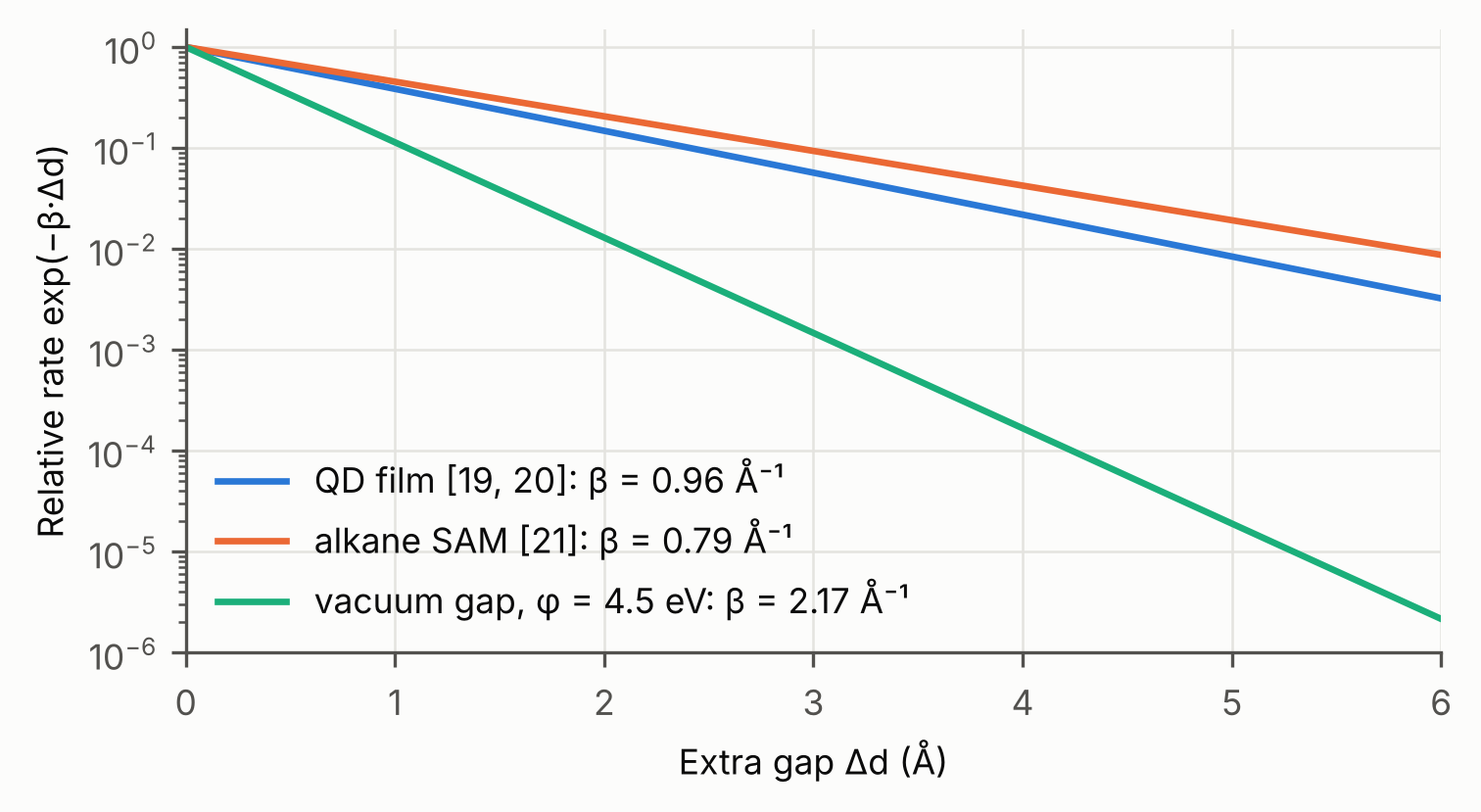
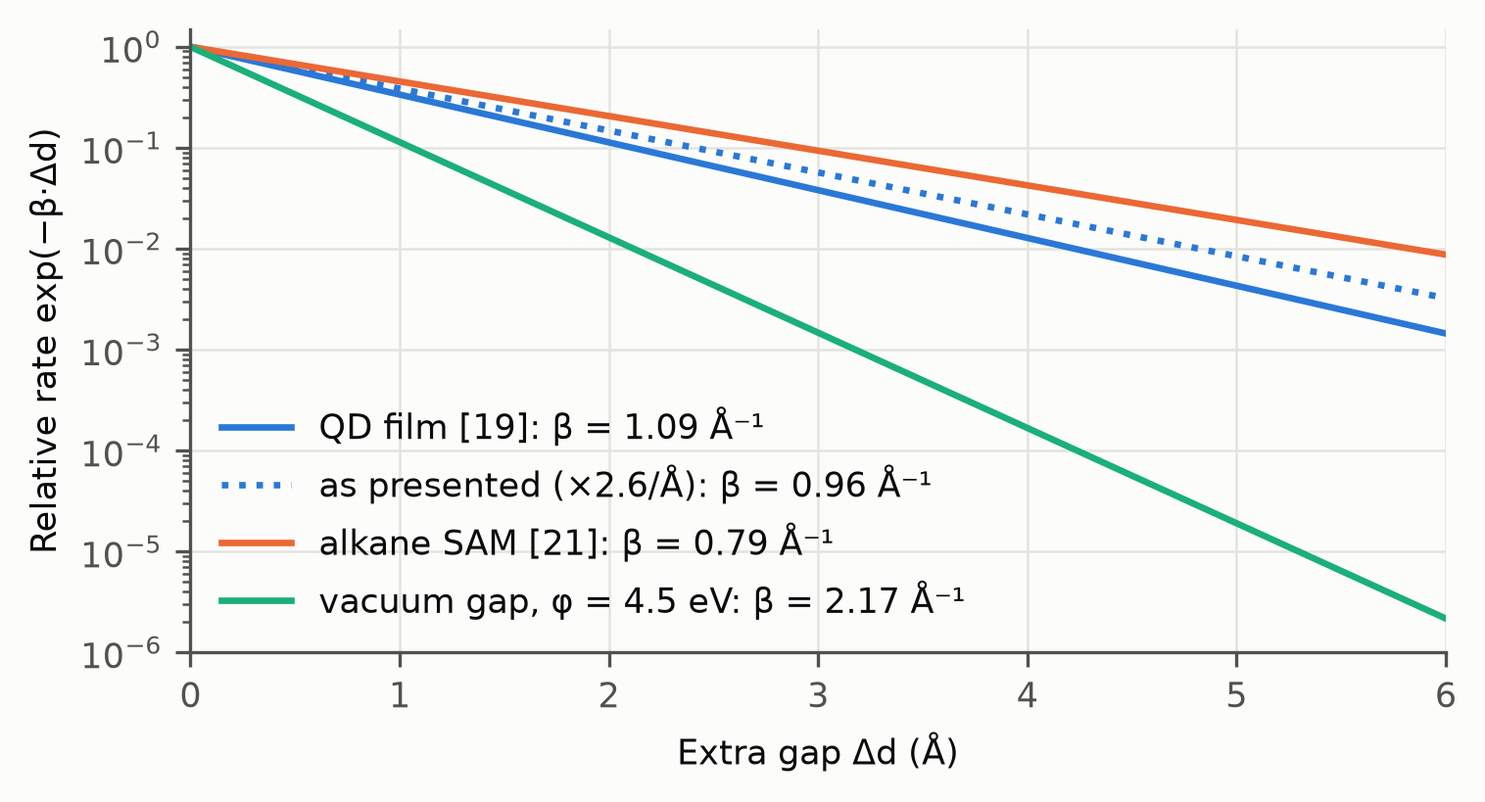
Correct the tunnelling decay constant to the primary source
The presentation used a mobility gain of 2.6 per angstrom of shorter ligand
(beta = ln 2.6 = 0.96 per angstrom), taken from the review [20]'s summary of
Liu et al. 2010 [19]. The abstract of [19] reports beta = 1.08-1.10 per
angstrom for alkanedithiol-treated PbSe films. The package now uses the
midpoint, 1.09 (barrier 1.13 eV for m0, 2.65 eV for 0.43 m0).

slides.py keeps the values as presented, checked against the input the talk
used, and marks each with its corrected value; README gains a Correction
section; f_tunnel shows both; one more validation check (102).

diff --git a/quantum_dot_photodetector/slides.py b/quantum_dot_photodetector/slides.py
@@ -5,6 +5,9 @@ Each entry gives the slide number (18-slide deck), the value as shown, the key i
 range for qualitative statements). ``slide_text`` is the exact string on the
 slide; ``script_text`` is the matching phrase of the spoken script, which was delivered in Chinese
 and is given here in English translation. Each number can be traced to where it is used.
+
+Entries with ``corrected`` show a value that was later corrected (README, Correction): they are checked against
+the input the presentation used, and ``corrected`` names the key of the corrected value.
 """
 from dataclasses import dataclass
 from typing import Optional, Tuple
@@ -21,6 +24,7 @@ class Shown:
     within: Optional[Tuple[float, float]] = None  # for qualitative statements
     slide_text: Optional[str] = None
     script_text: Optional[str] = None
+    corrected: Optional[str] = None          # key of the corrected value, for a number corrected after the talk
 
 
 REGISTRY = [
@@ -53,12 +57,15 @@ REGISTRY = [
     # ------------------------------------------------------------ slide 8: electrical properties
     Shown(8, "responsivity at η = 0.6, 1400 nm (A/W)", "R_st", 0.68, 0.005,
           slide_text="≈ 0.68 A/W at η = 0.6", script_text="about 0.68 A/W"),
-    Shown(8, "β of the QD film (Å⁻¹)", "beta_qd", 0.96, 0.005,
-          slide_text="β ≈ 0.96 Å⁻¹ [19, 20]", script_text="β is about 0.96 Å⁻¹"),
-    Shown(8, "κ of the QD film (Å⁻¹)", "kappa_qd", 0.48, 0.005, script_text="κ ≈ 0.48 Å⁻¹"),
-    Shown(8, "barrier of the QD film for m* = m0 (eV)", "barrier_qd_m0", 0.87, 0.005, script_text="φ is about 0.87 eV"),
+    Shown(8, "β of the QD film (Å⁻¹)", "beta_qd_presented", 0.96, 0.005,
+          slide_text="β ≈ 0.96 Å⁻¹ [19, 20]", script_text="β is about 0.96 Å⁻¹", corrected="beta_qd"),
+    Shown(8, "κ of the QD film (Å⁻¹)", "kappa_qd_presented", 0.48, 0.005, script_text="κ ≈ 0.48 Å⁻¹",
+          corrected="kappa_qd"),
+    Shown(8, "barrier of the QD film for m* = m0 (eV)", "barrier_qd_m0_presented", 0.87, 0.005,
+          script_text="φ is about 0.87 eV", corrected="barrier_qd_m0"),
     Shown(8, "m* implied by the SAM fit (m0)", "m_sam", 0.43, 0.005, script_text="m* ≈ 0.43 m0"),
-    Shown(8, "barrier of the QD film for m* = 0.43 m0 (eV)", "barrier_qd_msam", 2.0, 0.05, script_text="φ is about 2.0 eV"),
+    Shown(8, "barrier of the QD film for m* = 0.43 m0 (eV)", "barrier_qd_msam_presented", 2.0, 0.05,
+          script_text="φ is about 2.0 eV", corrected="barrier_qd_msam"),
     Shown(8, "rate factor per Å, alkane SAM", "factor_sam", 2.2, 0.05, slide_text="β = 0.79 Å⁻¹, ×2.2/Å"),
     Shown(8, "β of a 4.5 eV vacuum gap (Å⁻¹)", "beta_vac", 2.2, 0.05,
           slide_text="STM, β ≈ 2.2 Å⁻¹", script_text="β is about 2.2 Å⁻¹"),
@@ -102,7 +109,8 @@ REGISTRY = [
     # ------------------------------------------------------------ slide 16: conclusion
     Shown(16, "EMA confinement overestimate (×)", "over_ema", 2.7, 0.05,
           slide_text="overestimates the confinement ×2.7", script_text="overestimates by about 2.7 times"),
-    Shown(16, "β of the QD film (Å⁻¹)", "beta_qd", 0.96, 0.005, slide_text="0.96 Å⁻¹"),
+    Shown(16, "β of the QD film (Å⁻¹)", "beta_qd_presented", 0.96, 0.005, slide_text="0.96 Å⁻¹",
+          corrected="beta_qd"),
     Shown(16, "PbS CQD / InGaAs dark current (×)", "jd_ratio_meas", 62, 0.5, slide_text="62×"),
     Shown(16, "PbS CQD / InGaAs dark current, rounded (×)", "jd_ratio_meas", 60, 5,
           slide_text="dark current (≈ 60× InGaAs)"),

diff --git a/quantum_dot_photodetector/validation.py b/quantum_dot_photodetector/validation.py
@@ -147,9 +147,12 @@ def _surface(r):
 # ---------------------------------------------------------------- transport
 def _transport(r):
     cat = "Transport"
+    lo, hi = D.BETA_QD
     out = [
-        _close(cat, "β = ln 2.6 → rate factor per Å", 1 / tr.relative_rate(r["beta_qd"], 1.0), D.MOBILITY_FACTOR_PER_A, 1e-12,
-               "exp(β·1 Å) returns 2.6"),
+        _flag(cat, "β of the QD film within the range of [19]", lo <= r["beta_qd"] <= hi,
+              f"{lo} ≤ {r['beta_qd']:.3f} ≤ {hi} Å⁻¹; rate factor {r['factor_qd']:.2f} per Å"),
+        _close(cat, "as presented: β = ln 2.6 → rate factor per Å", 1 / tr.relative_rate(r["beta_qd_presented"], 1.0),
+               D.MOBILITY_FACTOR_PER_A_PRESENTED, 1e-12, "exp(β·1 Å) returns 2.6; corrected to [19], see README"),
     ]
     beta_si = 2 * math.sqrt(2 * sc.m_e * D.PHI_VAC * sc.e) / sc.hbar * 1e-10
     out.append(_close(cat, "vacuum 4.5 eV: β = 2(2m0φ)^½/ħ, recomputed in SI (Å⁻¹)", r["beta_vac"], beta_si, 1e-6,
@@ -223,6 +226,8 @@ def _slides(r):
         model, ok = slides.check(e, r)
         where = " / ".join(x for x in (e.slide_text and f"slide: “{e.slide_text}”",
                                         e.script_text and f"script: “{e.script_text}”") if x)
+        if e.corrected:
+            where += f"; corrected after the talk to {r[e.corrected] * e.scale:.3g} (README, Correction)"
         if e.within is not None:
             how = f"range {e.within[0]:g}–{e.within[1]:g}; {where}"
             out.append(Check(f"Slide {e.slide}", e.quantity, ok, model, None, None, how))

diff --git a/quantum_dot_photodetector/summary.py b/quantum_dot_photodetector/summary.py
@@ -40,11 +40,18 @@ def compute():
         r["shell_" + key] = sf.shell_fraction(dd)
         r["N_" + key] = sf.count_sites(dd, "atom")[0]
     # ---------------------------------------------------------------- transport
-    r["beta_qd"] = tr.beta_from_factor()
+    r["beta_qd_low"], r["beta_qd_high"] = D.BETA_QD
+    r["beta_qd"] = sum(D.BETA_QD) / 2                     # midpoint of the range reported by [19]
+    r["factor_qd"] = 1 / tr.relative_rate(r["beta_qd"], 1.0)
     r["kappa_qd"] = r["beta_qd"] / 2
     r["barrier_qd_m0"] = tr.barrier_from_beta(r["beta_qd"], 1.0)
     r["m_sam"] = tr.mass_from_beta_and_barrier(D.BETA_SAM, D.PHI_SAM)
     r["barrier_qd_msam"] = tr.barrier_from_beta(r["beta_qd"], r["m_sam"])
+    # as presented (factor 2.6 per Å); kept to check the slides and the script, see README, Correction
+    r["beta_qd_presented"] = tr.beta_from_factor(D.MOBILITY_FACTOR_PER_A_PRESENTED)
+    r["kappa_qd_presented"] = r["beta_qd_presented"] / 2
+    r["barrier_qd_m0_presented"] = tr.barrier_from_beta(r["beta_qd_presented"], 1.0)
+    r["barrier_qd_msam_presented"] = tr.barrier_from_beta(r["beta_qd_presented"], r["m_sam"])
     r["beta_vac"] = tr.beta_from_barrier(D.PHI_VAC)
     r["factor_vac"] = 1 / tr.relative_rate(r["beta_vac"], 1.0)
     r["factor_sam"] = 1 / tr.relative_rate(D.BETA_SAM, 1.0)

diff --git a/quantum_dot_photodetector/plotting.py b/quantum_dot_photodetector/plotting.py
@@ -80,11 +80,12 @@ def fig_tunnel(outdir):
     r = compute()
     x = np.linspace(0, 6, 100)
     fig, ax = plt.subplots(figsize=(WIDTH_IN, WIDTH_IN * 0.5))
-    lines = ((f"QD film [19, 20]: β = {r['beta_qd']:.2f} Å⁻¹", r["beta_qd"], BLUE),
-             (f"alkane SAM [21]: β = {D.BETA_SAM:.2f} Å⁻¹", D.BETA_SAM, ORANGE),
-             (f"vacuum gap, φ = {D.PHI_VAC} eV: β = {r['beta_vac']:.2f} Å⁻¹", r["beta_vac"], AQUA))
-    for lab, b, c in lines:
-        ax.semilogy(x, [tr.relative_rate(b, v) for v in x], color=c, label=lab)
+    lines = ((f"QD film [19]: β = {r['beta_qd']:.2f} Å⁻¹", r["beta_qd"], BLUE, "-"),
+             (f"as presented (×2.6/Å): β = {r['beta_qd_presented']:.2f} Å⁻¹", r["beta_qd_presented"], BLUE, ":"),
+             (f"alkane SAM [21]: β = {D.BETA_SAM:.2f} Å⁻¹", D.BETA_SAM, ORANGE, "-"),
+             (f"vacuum gap, φ = {D.PHI_VAC} eV: β = {r['beta_vac']:.2f} Å⁻¹", r["beta_vac"], AQUA, "-"))
+    for lab, b, c, style in lines:
+        ax.semilogy(x, [tr.relative_rate(b, v) for v in x], color=c, linestyle=style, label=lab)
     ax.set(xlim=(0, 6), ylim=(1e-6, 1.5), xlabel="Extra gap Δd (Å)", ylabel="Relative rate exp(−β·Δd)")
     ax.legend(loc="lower left")
     return _save(fig, outdir, "f_tunnel.png")

diff --git a/quantum_dot_photodetector/data.py b/quantum_dot_photodetector/data.py
@@ -23,7 +23,10 @@ EG_SI = 1.12           # eV, Si at 300 K [22]
 EG_INGAAS = 0.75       # eV, In0.53Ga0.47As at room temperature [24]
 
 # ---------------------------------------------------------------- transport between dots
-MOBILITY_FACTOR_PER_A = 2.6  # mobility gain per Å of shorter ligand, PbSe + alkanedithiols [19, 20]
+BETA_QD = (1.08, 1.10)       # Å⁻¹, mobility decay with ligand length, alkanedithiol-treated PbSe NC films [19]
+# the presentation used a gain of 2.6 per Å of shorter ligand, from the review [20]'s summary of [19];
+# [19] itself reports BETA_QD (2.9-3.0 per Å). See README, Correction.
+MOBILITY_FACTOR_PER_A_PRESENTED = 2.6
 BETA_SAM = 0.79              # Å⁻¹, tunnelling decay of alkanethiol monolayers [21]
 PHI_SAM = 1.39               # eV, barrier height fitted together with BETA_SAM [21]
 PHI_VAC = 4.5                # eV, typical metal work function for an STM vacuum gap (assumed)

diff --git a/quantum_dot_photodetector/transport.py b/quantum_dot_photodetector/transport.py
@@ -4,11 +4,10 @@ Lengths in Å, energies in eV, masses in units of m0.
 """
 import math
 
-from . import data as D
 from .constants import HB2_2M0_A
 
 
-def beta_from_factor(factor_per_A=D.MOBILITY_FACTOR_PER_A):
+def beta_from_factor(factor_per_A):
     """A rate that changes by `factor` per Å has β = ln(factor)."""
     return math.log(factor_per_A)
 

diff --git a/VALIDATION.md b/VALIDATION.md
@@ -1,6 +1,6 @@
 # Validation results
 
-101 / 101 checks passed. Generated by `python scripts/validate.py --markdown`; CI reruns every check on each push.
+102 / 102 checks passed. Generated by `python scripts/validate.py --markdown`; CI reruns every check on each push.
 
 | # | Category | Check | Model | Expected | Tolerance | Result | How it is checked |
 |---|---|---|---|---|---|---|---|
@@ -36,72 +36,73 @@
 | 30 | Surface atoms | shell-model large-dot limit: f·d/(6h) at d = 1000 nm | 0.9994 | 1 | 0.005 (rel) | PASS | f ≈ 6t/d |
 | 31 | Surface atoms | surface fraction falls with size (3, 5, 8, 12 nm) | — | — | — | PASS | 0.433, 0.268, 0.176, 0.120 |
 | 32 | Surface atoms | atom count < shell model at 3.1 and 5.1 nm | — | — | — | PASS | the count includes only atoms that miss a neighbour; the shell model counts the whole a/2 layer |
-| 33 | Transport | β = ln 2.6 → rate factor per Å | 2.6 | 2.6 | 1e-12 | PASS | exp(β·1 Å) returns 2.6 |
-| 34 | Transport | vacuum 4.5 eV: β = 2(2m0φ)^½/ħ, recomputed in SI (Å⁻¹) | 2.174 | 2.174 | 1e-06 (rel) | PASS | computed directly with SI constants |
-| 35 | Transport | φ(β) and β(φ) are inverse functions | 0.9555 | 0.9555 | 1e-12 | PASS | round trip |
-| 36 | Transport | SAM: (β, φ, m*) self-consistent | 0.79 | 0.79 | 1e-12 | PASS | β recomputed from the derived m* and φ = 1.39 eV returns 0.79 Å⁻¹ |
-| 37 | Transport | β ordering: SAM < QD film < vacuum | — | — | — | PASS | 0.79 < 0.956 < 2.174 Å⁻¹ |
-| 38 | Dark current | n = 2 ratio = √(n = 1 ratio) | 4367 | 4367 | 1e-09 (rel) | PASS | exp(ΔE/2kT) = [exp(ΔE/kT)]^½ |
-| 39 | Dark current | temperature projection unchanged at T = T0 | 2.25e-09 | 2.25e-09 | 1e-12 (rel) | PASS | definition |
-| 40 | Dark current | local halving interval lies between the exact halving and doubling steps (n = 1) | 5.581 | — | — | PASS | ln J is concave in T: exact 5.48 K (halving on cooling from 300 K) < local 5.58 K < 5.68 K (doubling on warming) |
-| 41 | Dark current | local halving interval lies between the exact halving and doubling steps (n = 2) | 11.16 | — | — | PASS | ln J is concave in T: exact 10.78 K (halving on cooling from 300 K) < local 11.16 K < 11.58 K (doubling on warming) |
-| 42 | Dark current | d lnJ/dT: numerical vs analytic (n = 1) | 0.1242 | 0.1242 | 1e-06 (rel) | PASS | central difference |
-| 43 | Dark current | d lnJ/dT: numerical vs analytic (n = 2) | 0.06209 | 0.06209 | 1e-06 (rel) | PASS | central difference |
-| 44 | Dark current | IMX990: 64.6 e⁻/s ÷ (5 µm)² (A/cm²) | 4.14e-11 | 4.14e-11 | 1e-12 (rel) | PASS | by hand: 64.6 × q / (5×10⁻⁴ cm)² |
-| 45 | Dark current | cooled IMX990 lies between the n = 1 and n = 2 projections | — | — | — | PASS | 1.66e-12 < 4.14e-11 < 6.1e-11 A/cm² |
-| 46 | Dark current | the QD dark current is not set by the gap | — | — | — | PASS | by the gap alone QD/InGaAs would be 0.14×; measured 62× |
-| 47 | Detector | Vafaie 2021: EQE 80 % at 1550 nm → R (A/W) | 1 | 1 | 0.01 (rel) | PASS | R = ηqλ/hc compared with the reported 1 A/W |
-| 48 | Detector | R(η = 0.6, 1400 nm), recomputed in SI (A/W) | 0.6775 | 0.6775 | 1e-06 (rel) | PASS | ηqλ/(hc) |
-| 49 | Detector | D* unit conversion, recomputed in SI (Jones) | 4.722e+12 | 4.722e+12 | 1e-09 (rel) | PASS | R/(2qJ)^½ in SI, then m converted to cm |
-| 50 | Detector | measured D* below the shot-noise limit (both devices) | — | — | — | PASS | thermal, 1/f and read-out noise add to the shot noise |
-| 51 | Slide 4 | bulk PbS absorption edge (µm) | 3.024 | 3 | 0.05 | PASS | slide: “0.41 eV · 3.0 µm” |
-| 52 | Slide 4 | dot diameter for 1400 nm (nm) | 5.107 | 5.1 | 0.05 | PASS | slide: “d = 5.1 nm” / script: “5.1 nm” |
-| 53 | Slide 4 | gap at 1400 nm (eV) | 0.8856 | 0.89 | 0.005 | PASS | slide: “0.89 eV · 1400 nm” |
-| 54 | Slide 4 | dot diameter for 940 nm (nm) | 3.056 | 3.1 | 0.05 | PASS | slide: “d = 3.1 nm” / script: “3.1 nm” |
-| 55 | Slide 4 | gap at 940 nm (eV) | 1.319 | 1.32 | 0.005 | PASS | slide: “1.32 eV · 940 nm” |
-| 56 | Slide 4 | surface atoms, 3.1 nm dot (%) | 42.69 | 43 | 0.5 | PASS | slide: “3.1 nm: 43 %” / script: “about 43 %” |
-| 57 | Slide 4 | surface atoms, 5.1 nm dot (%) | 26.92 | 27 | 0.5 | PASS | slide: “5.1 nm: 27 %” / script: “about 27 %” |
-| 58 | Slide 6 | Coulomb coefficient in the Brus formula | 1.786 | 1.8 | 0.05 | PASS | slide: “1.8e²/(4πεε₀R)” |
-| 59 | Slide 6 | EMA gap at 5.1 nm (eV) | 1.708 | 1.71 | 0.005 | PASS | slide: “EMA 1.71 eV” / script: “EMA gives 1.71 eV” |
-| 60 | Slide 6 | hyperbolic-band gap at 5.1 nm (eV) | 1.073 | 1.07 | 0.005 | PASS | slide: “hyperbolic bands [18] 1.07 eV” / script: “gives 1.07 eV” |
-| 61 | Slide 6 | measured gap at 5.1 nm (eV) | 0.8856 | 0.89 | 0.005 | PASS | slide: “measured [7] 0.89 eV” / script: “the measured value is 0.89 eV” |
-| 62 | Slide 6 | EMA confinement overestimate (×) | 2.73 | 2.7 | 0.05 | PASS | slide: “EMA 2.7× measured” / script: “overestimates by about 2.7 times” |
-| 63 | Slide 6 | HBM confinement overestimate (×) | 1.394 | 1.4 | 0.05 | PASS | slide: “HBM 1.4× measured” / script: “about 1.4 times” |
-| 64 | Slide 6 | EMA confinement energy at 5.1 nm (eV) | 1.357 | 1.36 | 0.005 | PASS | script: “the EMA confinement energy, 1.36 eV” |
-| 65 | Slide 6 | EMA confinement / bulk gap | 3.309 | — | — | PASS | range 3–4; script: “more than three times” |
-| 66 | Slide 6 | HBM vs EMA confinement at d = 400 nm | 0.0002696 | — | — | PASS | range 0–0.001; script: “differ by less than 0.1 %” |
-| 67 | Slide 6 | Moreels diameter for 1.29 eV (nm) | 3.138 | 3.14 | 0.005 | PASS | script: “our code gives 3.14 nm” |
-| 68 | Slide 8 | responsivity at η = 0.6, 1400 nm (A/W) | 0.6775 | 0.68 | 0.005 | PASS | slide: “≈ 0.68 A/W at η = 0.6” / script: “about 0.68 A/W” |
-| 69 | Slide 8 | β of the QD film (Å⁻¹) | 0.9555 | 0.96 | 0.005 | PASS | slide: “β ≈ 0.96 Å⁻¹ [19, 20]” / script: “β is about 0.96 Å⁻¹” |
-| 70 | Slide 8 | κ of the QD film (Å⁻¹) | 0.4778 | 0.48 | 0.005 | PASS | script: “κ ≈ 0.48 Å⁻¹” |
-| 71 | Slide 8 | barrier of the QD film for m* = m0 (eV) | 0.8696 | 0.87 | 0.005 | PASS | script: “φ is about 0.87 eV” |
-| 72 | Slide 8 | m* implied by the SAM fit (m0) | 0.4277 | 0.43 | 0.005 | PASS | script: “m* ≈ 0.43 m0” |
-| 73 | Slide 8 | barrier of the QD film for m* = 0.43 m0 (eV) | 2.033 | 2 | 0.05 | PASS | script: “φ is about 2.0 eV” |
-| 74 | Slide 8 | rate factor per Å, alkane SAM | 2.203 | 2.2 | 0.05 | PASS | slide: “β = 0.79 Å⁻¹, ×2.2/Å” |
-| 75 | Slide 8 | β of a 4.5 eV vacuum gap (Å⁻¹) | 2.174 | 2.2 | 0.05 | PASS | slide: “STM, β ≈ 2.2 Å⁻¹” / script: “β is about 2.2 Å⁻¹” |
-| 76 | Slide 8 | rate factor per Å, vacuum gap | 8.79 | 9 | 0.5 | PASS | slide: “β ≈ 2.2 Å⁻¹, ×9/Å” |
-| 77 | Slide 9 | Si absorption edge (µm) | 1.107 | 1.11 | 0.005 | PASS | slide: “Silicon CMOS: edge 1.11 µm” / script: “absorption edge about 1.1 µm” |
-| 78 | Slide 9 | InGaAs absorption edge (µm) | 1.653 | 1.65 | 0.005 | PASS | slide: “InGaAs: edge 1.65 µm” / script: “about 1.65 µm” |
-| 79 | Slide 9 | bulk PbS absorption edge (µm) | 3.024 | 3 | 0.05 | PASS | slide: “up to bulk edge 3.0 µm” / script: “about 3.0 µm” |
-| 80 | Slide 10 | gap at 940 nm (eV) | 1.319 | 1.32 | 0.005 | PASS | slide: “Eg 1.32 → 0.89 eV” / script: “the gap falls from 1.32 eV” |
-| 81 | Slide 10 | gap at 1400 nm (eV) | 0.8856 | 0.89 | 0.005 | PASS | script: “to 0.89 eV” |
-| 82 | Slide 10 | ideal-limit increase, diffusion (slide) | 1.907e+07 | 1.9e+07 | 5e+05 | PASS | slide: “×1.9 × 10⁷” |
-| 83 | Slide 10 | ideal-limit increase, diffusion (script) | 1.907e+07 | 2e+07 | 5e+06 | PASS | script: “about 2 × 10⁷ times” |
-| 84 | Slide 10 | ideal-limit increase, generation (slide) | 4367 | 4400 | 50 | PASS | slide: “×4.4 × 10³” |
-| 85 | Slide 10 | ideal-limit increase, generation (script) | 4367 | 4000 | 500 | PASS | script: “4 × 10³ times” |
-| 86 | Slide 10 | halving interval, diffusion (K) | 5.581 | 6 | 0.5 | PASS | slide: “halves every ≈ 6 K” / script: “for every ≈ 6 K of cooling” |
-| 87 | Slide 10 | halving interval, generation (K) | 11.16 | 11 | 0.5 | PASS | slide: “≈ 11 K (generation)” / script: “and 11 K” |
-| 88 | Slide 10 | IMX990 dark current at −30 °C (nA/cm²) | 0.0414 | 0.041 | 0.0005 | PASS | slide: “IMX990 [25]: 0.041” |
-| 89 | Slide 10 | PbS CQD / InGaAs dark current (×) | 62.22 | 62 | 0.5 | PASS | slide: “PbS CQD / InGaAs = 62×” / script: “about 62 times that of InGaAs” |
-| 90 | Slide 11 | shot-noise D*, PbS CQD (Jones) | 4.722e+12 | 4.7e+12 | 5e+10 | PASS | slide: “4.7 × 10¹² Jones” / script: “4.7 × 10¹² Jones” |
-| 91 | Slide 11 | shot-noise D*, InGaAs (Jones) | 4.097e+13 | 4.1e+13 | 5e+11 | PASS | slide: “4.1 × 10¹³ Jones” / script: “4.1 × 10¹³ Jones” |
-| 92 | Slide 11 | PbS CQD / InGaAs dark current, rounded (×) | 62.22 | 60 | 5 | PASS | script: “about 60 times higher” |
-| 93 | Slide 11 | InGaAs / PbS CQD measured D* (×) | 13.75 | 14 | 0.5 | PASS | script: “D* about 14 times lower” |
-| 94 | Slide 12 | pixel area, Acuros / ST (×) | 85.73 | 86 | 0.5 | PASS | slide: “Pixel area: 86×” / script: “86 times the ST pixel” |
-| 95 | Slide 12 | pixel area, IMX990 / ST (×) | 9.526 | 9.5 | 0.05 | PASS | slide: “86× and 9.5× the ST pixel” / script: “about 9.5 times” |
-| 96 | Slide 13 | dark-current gap to InGaAs, rounded (×) | 62.22 | 60 | 5 | PASS | slide: “close the ≈ 60× gap” / script: “about 60 times” |
-| 97 | Slide 16 | EMA confinement overestimate (×) | 2.73 | 2.7 | 0.05 | PASS | slide: “overestimates the confinement ×2.7” / script: “overestimates by about 2.7 times” |
-| 98 | Slide 16 | β of the QD film (Å⁻¹) | 0.9555 | 0.96 | 0.005 | PASS | slide: “0.96 Å⁻¹” |
-| 99 | Slide 16 | PbS CQD / InGaAs dark current (×) | 62.22 | 62 | 0.5 | PASS | slide: “62×” |
-| 100 | Slide 16 | PbS CQD / InGaAs dark current, rounded (×) | 62.22 | 60 | 5 | PASS | slide: “dark current (≈ 60× InGaAs)” |
-| 101 | Slide 16 | pixel area, IMX990 / ST (×) | 9.526 | 9.5 | 0.05 | PASS | slide: “1/9.5 the area” |
+| 33 | Transport | β of the QD film within the range of [19] | — | — | — | PASS | 1.08 ≤ 1.090 ≤ 1.1 Å⁻¹; rate factor 2.97 per Å |
+| 34 | Transport | as presented: β = ln 2.6 → rate factor per Å | 2.6 | 2.6 | 1e-12 | PASS | exp(β·1 Å) returns 2.6; corrected to [19], see README |
+| 35 | Transport | vacuum 4.5 eV: β = 2(2m0φ)^½/ħ, recomputed in SI (Å⁻¹) | 2.174 | 2.174 | 1e-06 (rel) | PASS | computed directly with SI constants |
+| 36 | Transport | φ(β) and β(φ) are inverse functions | 0.9555 | 0.9555 | 1e-12 | PASS | round trip |
+| 37 | Transport | SAM: (β, φ, m*) self-consistent | 0.79 | 0.79 | 1e-12 | PASS | β recomputed from the derived m* and φ = 1.39 eV returns 0.79 Å⁻¹ |
+| 38 | Transport | β ordering: SAM < QD film < vacuum | — | — | — | PASS | 0.79 < 1.090 < 2.174 Å⁻¹ |
+| 39 | Dark current | n = 2 ratio = √(n = 1 ratio) | 4367 | 4367 | 1e-09 (rel) | PASS | exp(ΔE/2kT) = [exp(ΔE/kT)]^½ |
+| 40 | Dark current | temperature projection unchanged at T = T0 | 2.25e-09 | 2.25e-09 | 1e-12 (rel) | PASS | definition |
+| 41 | Dark current | local halving interval lies between the exact halving and doubling steps (n = 1) | 5.581 | — | — | PASS | ln J is concave in T: exact 5.48 K (halving on cooling from 300 K) < local 5.58 K < 5.68 K (doubling on warming) |
+| 42 | Dark current | local halving interval lies between the exact halving and doubling steps (n = 2) | 11.16 | — | — | PASS | ln J is concave in T: exact 10.78 K (halving on cooling from 300 K) < local 11.16 K < 11.58 K (doubling on warming) |
+| 43 | Dark current | d lnJ/dT: numerical vs analytic (n = 1) | 0.1242 | 0.1242 | 1e-06 (rel) | PASS | central difference |
+| 44 | Dark current | d lnJ/dT: numerical vs analytic (n = 2) | 0.06209 | 0.06209 | 1e-06 (rel) | PASS | central difference |
+| 45 | Dark current | IMX990: 64.6 e⁻/s ÷ (5 µm)² (A/cm²) | 4.14e-11 | 4.14e-11 | 1e-12 (rel) | PASS | by hand: 64.6 × q / (5×10⁻⁴ cm)² |
+| 46 | Dark current | cooled IMX990 lies between the n = 1 and n = 2 projections | — | — | — | PASS | 1.66e-12 < 4.14e-11 < 6.1e-11 A/cm² |
+| 47 | Dark current | the QD dark current is not set by the gap | — | — | — | PASS | by the gap alone QD/InGaAs would be 0.14×; measured 62× |
+| 48 | Detector | Vafaie 2021: EQE 80 % at 1550 nm → R (A/W) | 1 | 1 | 0.01 (rel) | PASS | R = ηqλ/hc compared with the reported 1 A/W |
+| 49 | Detector | R(η = 0.6, 1400 nm), recomputed in SI (A/W) | 0.6775 | 0.6775 | 1e-06 (rel) | PASS | ηqλ/(hc) |
+| 50 | Detector | D* unit conversion, recomputed in SI (Jones) | 4.722e+12 | 4.722e+12 | 1e-09 (rel) | PASS | R/(2qJ)^½ in SI, then m converted to cm |
+| 51 | Detector | measured D* below the shot-noise limit (both devices) | — | — | — | PASS | thermal, 1/f and read-out noise add to the shot noise |
+| 52 | Slide 4 | bulk PbS absorption edge (µm) | 3.024 | 3 | 0.05 | PASS | slide: “0.41 eV · 3.0 µm” |
+| 53 | Slide 4 | dot diameter for 1400 nm (nm) | 5.107 | 5.1 | 0.05 | PASS | slide: “d = 5.1 nm” / script: “5.1 nm” |
+| 54 | Slide 4 | gap at 1400 nm (eV) | 0.8856 | 0.89 | 0.005 | PASS | slide: “0.89 eV · 1400 nm” |
+| 55 | Slide 4 | dot diameter for 940 nm (nm) | 3.056 | 3.1 | 0.05 | PASS | slide: “d = 3.1 nm” / script: “3.1 nm” |
+| 56 | Slide 4 | gap at 940 nm (eV) | 1.319 | 1.32 | 0.005 | PASS | slide: “1.32 eV · 940 nm” |
+| 57 | Slide 4 | surface atoms, 3.1 nm dot (%) | 42.69 | 43 | 0.5 | PASS | slide: “3.1 nm: 43 %” / script: “about 43 %” |
+| 58 | Slide 4 | surface atoms, 5.1 nm dot (%) | 26.92 | 27 | 0.5 | PASS | slide: “5.1 nm: 27 %” / script: “about 27 %” |
+| 59 | Slide 6 | Coulomb coefficient in the Brus formula | 1.786 | 1.8 | 0.05 | PASS | slide: “1.8e²/(4πεε₀R)” |
+| 60 | Slide 6 | EMA gap at 5.1 nm (eV) | 1.708 | 1.71 | 0.005 | PASS | slide: “EMA 1.71 eV” / script: “EMA gives 1.71 eV” |
+| 61 | Slide 6 | hyperbolic-band gap at 5.1 nm (eV) | 1.073 | 1.07 | 0.005 | PASS | slide: “hyperbolic bands [18] 1.07 eV” / script: “gives 1.07 eV” |
+| 62 | Slide 6 | measured gap at 5.1 nm (eV) | 0.8856 | 0.89 | 0.005 | PASS | slide: “measured [7] 0.89 eV” / script: “the measured value is 0.89 eV” |
+| 63 | Slide 6 | EMA confinement overestimate (×) | 2.73 | 2.7 | 0.05 | PASS | slide: “EMA 2.7× measured” / script: “overestimates by about 2.7 times” |
+| 64 | Slide 6 | HBM confinement overestimate (×) | 1.394 | 1.4 | 0.05 | PASS | slide: “HBM 1.4× measured” / script: “about 1.4 times” |
+| 65 | Slide 6 | EMA confinement energy at 5.1 nm (eV) | 1.357 | 1.36 | 0.005 | PASS | script: “the EMA confinement energy, 1.36 eV” |
+| 66 | Slide 6 | EMA confinement / bulk gap | 3.309 | — | — | PASS | range 3–4; script: “more than three times” |
+| 67 | Slide 6 | HBM vs EMA confinement at d = 400 nm | 0.0002696 | — | — | PASS | range 0–0.001; script: “differ by less than 0.1 %” |
+| 68 | Slide 6 | Moreels diameter for 1.29 eV (nm) | 3.138 | 3.14 | 0.005 | PASS | script: “our code gives 3.14 nm” |
+| 69 | Slide 8 | responsivity at η = 0.6, 1400 nm (A/W) | 0.6775 | 0.68 | 0.005 | PASS | slide: “≈ 0.68 A/W at η = 0.6” / script: “about 0.68 A/W” |
+| 70 | Slide 8 | β of the QD film (Å⁻¹) | 0.9555 | 0.96 | 0.005 | PASS | slide: “β ≈ 0.96 Å⁻¹ [19, 20]” / script: “β is about 0.96 Å⁻¹”; corrected after the talk to 1.09 (README, Correction) |
+| 71 | Slide 8 | κ of the QD film (Å⁻¹) | 0.4778 | 0.48 | 0.005 | PASS | script: “κ ≈ 0.48 Å⁻¹”; corrected after the talk to 0.545 (README, Correction) |
+| 72 | Slide 8 | barrier of the QD film for m* = m0 (eV) | 0.8696 | 0.87 | 0.005 | PASS | script: “φ is about 0.87 eV”; corrected after the talk to 1.13 (README, Correction) |
+| 73 | Slide 8 | m* implied by the SAM fit (m0) | 0.4277 | 0.43 | 0.005 | PASS | script: “m* ≈ 0.43 m0” |
+| 74 | Slide 8 | barrier of the QD film for m* = 0.43 m0 (eV) | 2.033 | 2 | 0.05 | PASS | script: “φ is about 2.0 eV”; corrected after the talk to 2.65 (README, Correction) |
+| 75 | Slide 8 | rate factor per Å, alkane SAM | 2.203 | 2.2 | 0.05 | PASS | slide: “β = 0.79 Å⁻¹, ×2.2/Å” |
+| 76 | Slide 8 | β of a 4.5 eV vacuum gap (Å⁻¹) | 2.174 | 2.2 | 0.05 | PASS | slide: “STM, β ≈ 2.2 Å⁻¹” / script: “β is about 2.2 Å⁻¹” |
+| 77 | Slide 8 | rate factor per Å, vacuum gap | 8.79 | 9 | 0.5 | PASS | slide: “β ≈ 2.2 Å⁻¹, ×9/Å” |
+| 78 | Slide 9 | Si absorption edge (µm) | 1.107 | 1.11 | 0.005 | PASS | slide: “Silicon CMOS: edge 1.11 µm” / script: “absorption edge about 1.1 µm” |
+| 79 | Slide 9 | InGaAs absorption edge (µm) | 1.653 | 1.65 | 0.005 | PASS | slide: “InGaAs: edge 1.65 µm” / script: “about 1.65 µm” |
+| 80 | Slide 9 | bulk PbS absorption edge (µm) | 3.024 | 3 | 0.05 | PASS | slide: “up to bulk edge 3.0 µm” / script: “about 3.0 µm” |
+| 81 | Slide 10 | gap at 940 nm (eV) | 1.319 | 1.32 | 0.005 | PASS | slide: “Eg 1.32 → 0.89 eV” / script: “the gap falls from 1.32 eV” |
+| 82 | Slide 10 | gap at 1400 nm (eV) | 0.8856 | 0.89 | 0.005 | PASS | script: “to 0.89 eV” |
+| 83 | Slide 10 | ideal-limit increase, diffusion (slide) | 1.907e+07 | 1.9e+07 | 5e+05 | PASS | slide: “×1.9 × 10⁷” |
+| 84 | Slide 10 | ideal-limit increase, diffusion (script) | 1.907e+07 | 2e+07 | 5e+06 | PASS | script: “about 2 × 10⁷ times” |
+| 85 | Slide 10 | ideal-limit increase, generation (slide) | 4367 | 4400 | 50 | PASS | slide: “×4.4 × 10³” |
+| 86 | Slide 10 | ideal-limit increase, generation (script) | 4367 | 4000 | 500 | PASS | script: “4 × 10³ times” |
+| 87 | Slide 10 | halving interval, diffusion (K) | 5.581 | 6 | 0.5 | PASS | slide: “halves every ≈ 6 K” / script: “for every ≈ 6 K of cooling” |
+| 88 | Slide 10 | halving interval, generation (K) | 11.16 | 11 | 0.5 | PASS | slide: “≈ 11 K (generation)” / script: “and 11 K” |
+| 89 | Slide 10 | IMX990 dark current at −30 °C (nA/cm²) | 0.0414 | 0.041 | 0.0005 | PASS | slide: “IMX990 [25]: 0.041” |
+| 90 | Slide 10 | PbS CQD / InGaAs dark current (×) | 62.22 | 62 | 0.5 | PASS | slide: “PbS CQD / InGaAs = 62×” / script: “about 62 times that of InGaAs” |
+| 91 | Slide 11 | shot-noise D*, PbS CQD (Jones) | 4.722e+12 | 4.7e+12 | 5e+10 | PASS | slide: “4.7 × 10¹² Jones” / script: “4.7 × 10¹² Jones” |
+| 92 | Slide 11 | shot-noise D*, InGaAs (Jones) | 4.097e+13 | 4.1e+13 | 5e+11 | PASS | slide: “4.1 × 10¹³ Jones” / script: “4.1 × 10¹³ Jones” |
+| 93 | Slide 11 | PbS CQD / InGaAs dark current, rounded (×) | 62.22 | 60 | 5 | PASS | script: “about 60 times higher” |
+| 94 | Slide 11 | InGaAs / PbS CQD measured D* (×) | 13.75 | 14 | 0.5 | PASS | script: “D* about 14 times lower” |
+| 95 | Slide 12 | pixel area, Acuros / ST (×) | 85.73 | 86 | 0.5 | PASS | slide: “Pixel area: 86×” / script: “86 times the ST pixel” |
+| 96 | Slide 12 | pixel area, IMX990 / ST (×) | 9.526 | 9.5 | 0.05 | PASS | slide: “86× and 9.5× the ST pixel” / script: “about 9.5 times” |
+| 97 | Slide 13 | dark-current gap to InGaAs, rounded (×) | 62.22 | 60 | 5 | PASS | slide: “close the ≈ 60× gap” / script: “about 60 times” |
+| 98 | Slide 16 | EMA confinement overestimate (×) | 2.73 | 2.7 | 0.05 | PASS | slide: “overestimates the confinement ×2.7” / script: “overestimates by about 2.7 times” |
+| 99 | Slide 16 | β of the QD film (Å⁻¹) | 0.9555 | 0.96 | 0.005 | PASS | slide: “0.96 Å⁻¹”; corrected after the talk to 1.09 (README, Correction) |
+| 100 | Slide 16 | PbS CQD / InGaAs dark current (×) | 62.22 | 62 | 0.5 | PASS | slide: “62×” |
+| 101 | Slide 16 | PbS CQD / InGaAs dark current, rounded (×) | 62.22 | 60 | 5 | PASS | slide: “dark current (≈ 60× InGaAs)” |
+| 102 | Slide 16 | pixel area, IMX990 / ST (×) | 9.526 | 9.5 | 0.05 | PASS | slide: “1/9.5 the area” |

diff --git a/README.md b/README.md
@@ -21,7 +21,7 @@ Energies are in eV, dot diameters in nm, tunnelling lengths in Å, dark-current 
 - **Tunnelling between dots** — decay constant β from the measured ligand-length dependence of mobility, compared with alkanethiol monolayers and a vacuum gap.
 - **Dark current** — ideal-diode diffusion (n = 1) and generation (n = 2) limits: effect of a smaller gap, halving interval on cooling, temperature projection of a measured InGaAs value.
 - **Detector metrics** — responsivity, shot-noise-limited specific detectivity D*, pixel-area ratios.
-- **Validation** — 101 automated checks plus unit tests, run in CI on every push.
+- **Validation** — 102 automated checks plus unit tests, run in CI on every push.
 
 ## Quick Start
 
@@ -52,7 +52,7 @@ print(sf.surface_fraction(d))                 # 0.269: 27 % of the atoms are at 
 
 ```bash
 pytest -q                               # unit tests + full validation suite
-python scripts/validate.py --markdown   # 101 checks → outputs/validation_table.json and VALIDATION.md
+python scripts/validate.py --markdown   # 102 checks → outputs/validation_table.json and VALIDATION.md
 ```
 
 `scripts/validate.py` exits with code 1 if any check fails. The full table is in [VALIDATION.md](VALIDATION.md).
@@ -71,7 +71,7 @@ Quantum-Dot-Photodetector/
 │   ├── detector.py       # responsivity, shot-noise D*, dark current from e⁻/s, pixel areas
 │   ├── summary.py        # every number in the report (compute)
 │   ├── slides.py         # where each number appears: slide, value shown, tolerance
-│   ├── validation.py     # 101 automated checks (run_all)
+│   ├── validation.py     # 102 automated checks (run_all)
 │   └── plotting.py       # figures (14 cm wide, 300 dpi)
 ├── scripts/              # command-line entry points
 ├── tests/                # pytest: unit tests and full validation
@@ -120,13 +120,13 @@ For large dots the count tends to $`f \to 6h\,\langle\max_i |n_i|\rangle/d`$ wit
 
 ### Tunnelling between dots
 
-Carrier mobility in a dot film falls exponentially with the ligand length, $\mu \propto \exp(-\beta d)$. A factor 2.6 per Å gives $\beta = \ln 2.6 = 0.96$ Å⁻¹. For a rectangular barrier
+Carrier mobility in a dot film falls exponentially with the ligand length, $\mu \propto \exp(-\beta d)$. Liu et al. [19] measured $\beta$ = 1.08–1.10 Å⁻¹ for PbSe dot films treated with alkanedithiols of different lengths; the midpoint, 1.09 Å⁻¹, means a factor of 3.0 per Å of ligand (see Correction). For a rectangular barrier
 
 ```math
 \beta = 2\kappa = \frac{2\sqrt{2m^*\varphi}}{\hbar}
 ```
 
-so the same β corresponds to φ = 0.87 eV with $`m^* = m_0`$ or 2.0 eV with $`m^* = 0.43\,m_0`$; β is compared directly with alkanethiol monolayers (0.79 Å⁻¹) and a 4.5 eV vacuum gap (2.17 Å⁻¹).
+so the same β corresponds to φ = 1.13 eV with $`m^* = m_0`$ or 2.65 eV with $`m^* = 0.43\,m_0`$; β is compared directly with alkanethiol monolayers (0.79 Å⁻¹) and a 4.5 eV vacuum gap (2.17 Å⁻¹).
 
 ![Tunnelling](docs/figures/f_tunnel.png)
 
@@ -159,7 +159,8 @@ R = \frac{\eta q\lambda}{hc},\qquad D^*_\mathrm{shot} = \frac{R}{\sqrt{2qJ_d}}
 | Moreels sizing curve coefficients | 0.0252, 0.283 | [7] |
 | PbS lattice constant $a$ | 0.5936 nm | [27] |
 | Sensor wavelengths | 940, 1400 nm | ST [12] |
-| Mobility factor per Å of ligand | 2.6 (PbSe, alkanedithiols) | [19, 20] |
+| Mobility decay constant β (PbSe, alkanedithiols) | 1.08–1.10 Å⁻¹ (midpoint 1.09 used) | [19] |
+| Mobility factor per Å used in the presentation | 2.6 (β = 0.96 Å⁻¹; corrected, see Correction) | [20] |
 | Alkanethiol SAM β, φ | 0.79 Å⁻¹, 1.39 eV | [21] |
 | Vacuum barrier | 4.5 eV | assumed (typical metal work function) |
 | Si, In₀.₅₃Ga₀.₄₇As gaps | 1.12, 0.75 eV | [22], [24] |
@@ -177,7 +178,7 @@ R = \frac{\eta q\lambda}{hc},\qquad D^*_\mathrm{shot} = \frac{R}{\sqrt{2qJ_d}}
 | Gap at d = 5.11 nm: EMA / hyperbolic / measured | 1.71 / 1.07 / 0.89 eV | 6 |
 | Confinement overestimate vs measured: EMA / hyperbolic | 2.7× / 1.4× | 6, 16 |
 | Atoms at the surface: 3.1 / 5.1 nm dot | 43 % / 27 % (shell model 48 % / 31 %) | 4 |
-| β of the QD film; SAM; vacuum gap | 0.96; 0.79; 2.17 Å⁻¹ | 8 |
+| β of the QD film; SAM; vacuum gap | 1.09 (presented: 0.96); 0.79; 2.17 Å⁻¹ | 8, 16 |
 | Ideal dark-current increase, 940 → 1400 nm dots | 1.9 × 10⁷ (n = 1), 4.4 × 10³ (n = 2) | 10 |
 | Halving interval near 300 K | 5.6 K (n = 1), 11.2 K (n = 2) | 10 |
 | Measured dark current, PbS CQD / InGaAs | 62× (gap alone would give 0.14×) | 10, 13, 16 |
@@ -188,6 +189,20 @@ R = \frac{\eta q\lambda}{hc},\qquad D^*_\mathrm{shot} = \frac{R}{\sqrt{2qJ_d}}
 - About a quarter of the atoms in a 5 nm dot are at the surface, which is why ligand passivation matters for traps and dark current.
 - The CQD photodiode has 62 times the dark current of the InGaAs FPA although its gap is wider; by the gap alone it should have 0.14 times. The excess comes from defects such as surface traps, not from the gap.
 
+## Correction
+
+The presentation (slides 8 and 16 and the spoken script) used a mobility gain of 2.6 per Å of shorter ligand, taken from the review [20]'s summary of [19], which gives $\beta = \ln 2.6 = 0.96$ Å⁻¹. The primary source [19] reports $\beta$ = 1.08–1.10 Å⁻¹ in its abstract, a gain of 2.9–3.0 per Å; the review's own wording could not be re-checked for this correction. The package now uses the midpoint of [19]:
+
+| Quantity | Presented | Corrected |
+|---|---|---|
+| β of the QD film (Å⁻¹) | 0.96 | 1.09 |
+| Mobility gain per Å of shorter ligand | 2.6× | 3.0× |
+| κ = β/2 (Å⁻¹) | 0.48 | 0.545 |
+| Barrier for $`m^* = m_0`$ (eV) | 0.87 | 1.13 |
+| Barrier for $`m^* = 0.43\,m_0`$ (eV) | 2.0 | 2.65 |
+
+The conclusions stand: the film's β lies between an alkanethiol monolayer (0.79 Å⁻¹) and a vacuum gap (2.17 Å⁻¹), and shortening the ligand raises the mobility steeply. `slides.py` keeps the values as presented, still checked against the input the presentation used, and marks each with its corrected value; [VALIDATION.md](VALIDATION.md) shows both.
+
 ## Validation
 
 | Category | Checks | Examples |
@@ -195,7 +210,7 @@ R = \frac{\eta q\lambda}{hc},\qquad D^*_\mathrm{shot} = \frac{R}{\sqrt{2qJ_d}}
 | Constants | 4 | ħ²/2m0, e²/4πε0, hc, k_B against CODATA 2018 (scipy) |
 | Quantum size | 15 | inversion round trip; EMA and Coulomb terms recomputed in SI; HBM → EMA small-k series; ordering and bulk limits |
 | Surface atoms | 13 | two independent counting algorithms agree exactly; lattice density; large-dot limit extrapolated to 0.831; shell model by hand |
-| Transport | 5 | β = ln 2.6; vacuum β recomputed in SI; (β, φ, m*) self-consistency |
+| Transport | 6 | β within the range of [19]; the presented ln 2.6; vacuum β recomputed in SI; (β, φ, m*) self-consistency |
 | Dark current | 9 | n = 2 ratio = √(n = 1 ratio); numerical vs analytic d lnJ/dT; exact halving brackets the local value; IMX990 between projections |
 | Detector | 4 | R = 1.00 A/W against the reported 1 A/W [23]; D* recomputed in SI; measured D* below the shot-noise limit |
 | Slide values | 51 | every computed number on slides 4, 6, 8–13 and 16 and in the script, within half a unit of the last digit shown |
